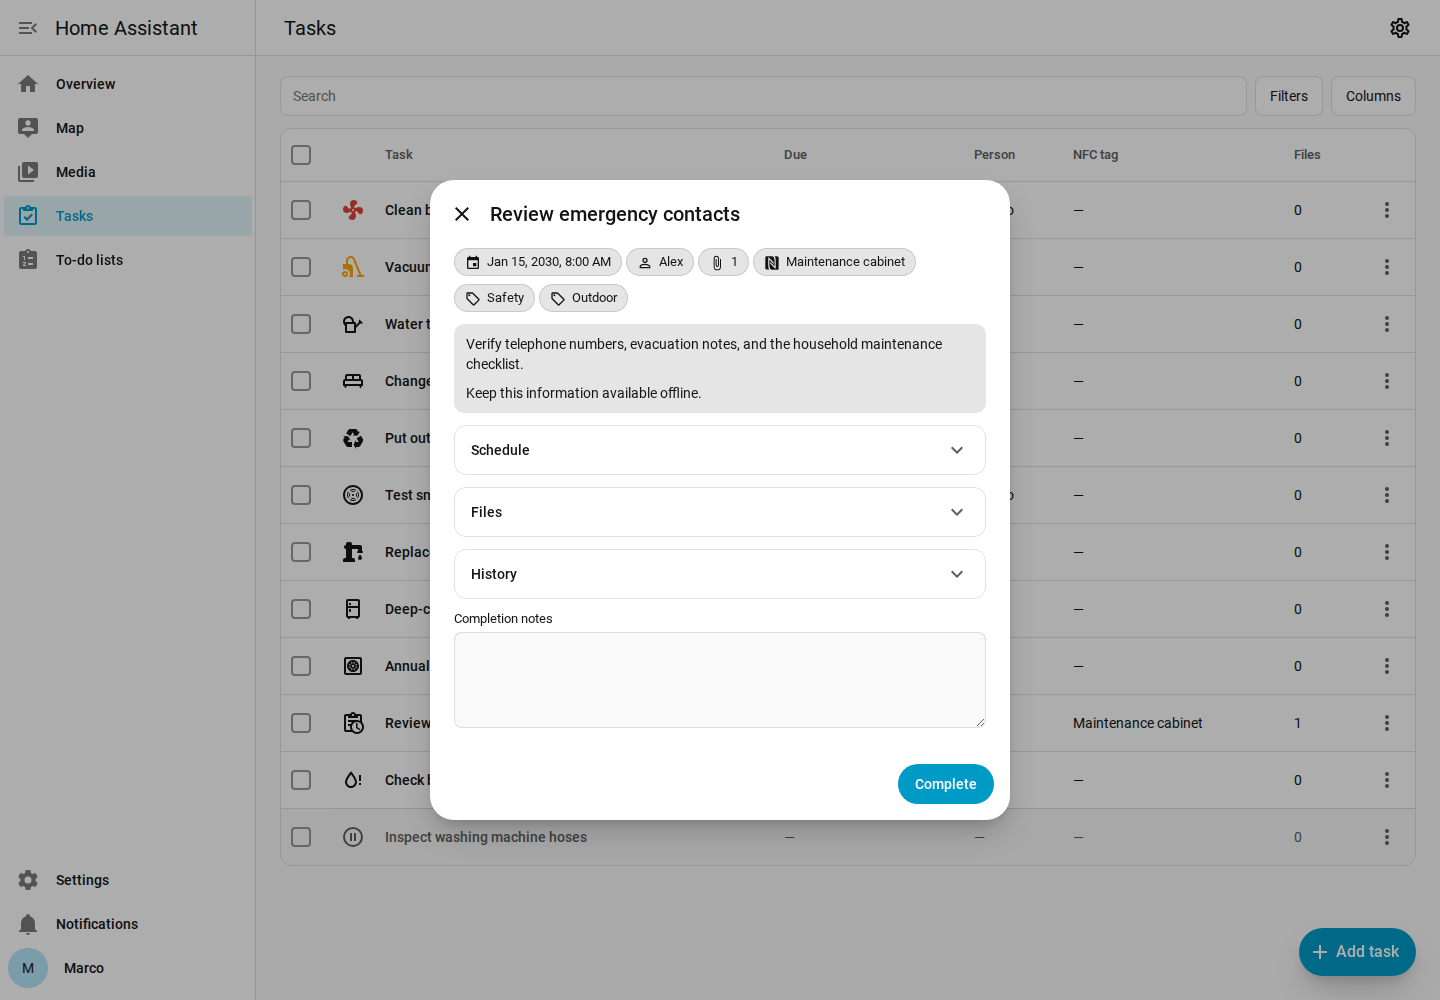
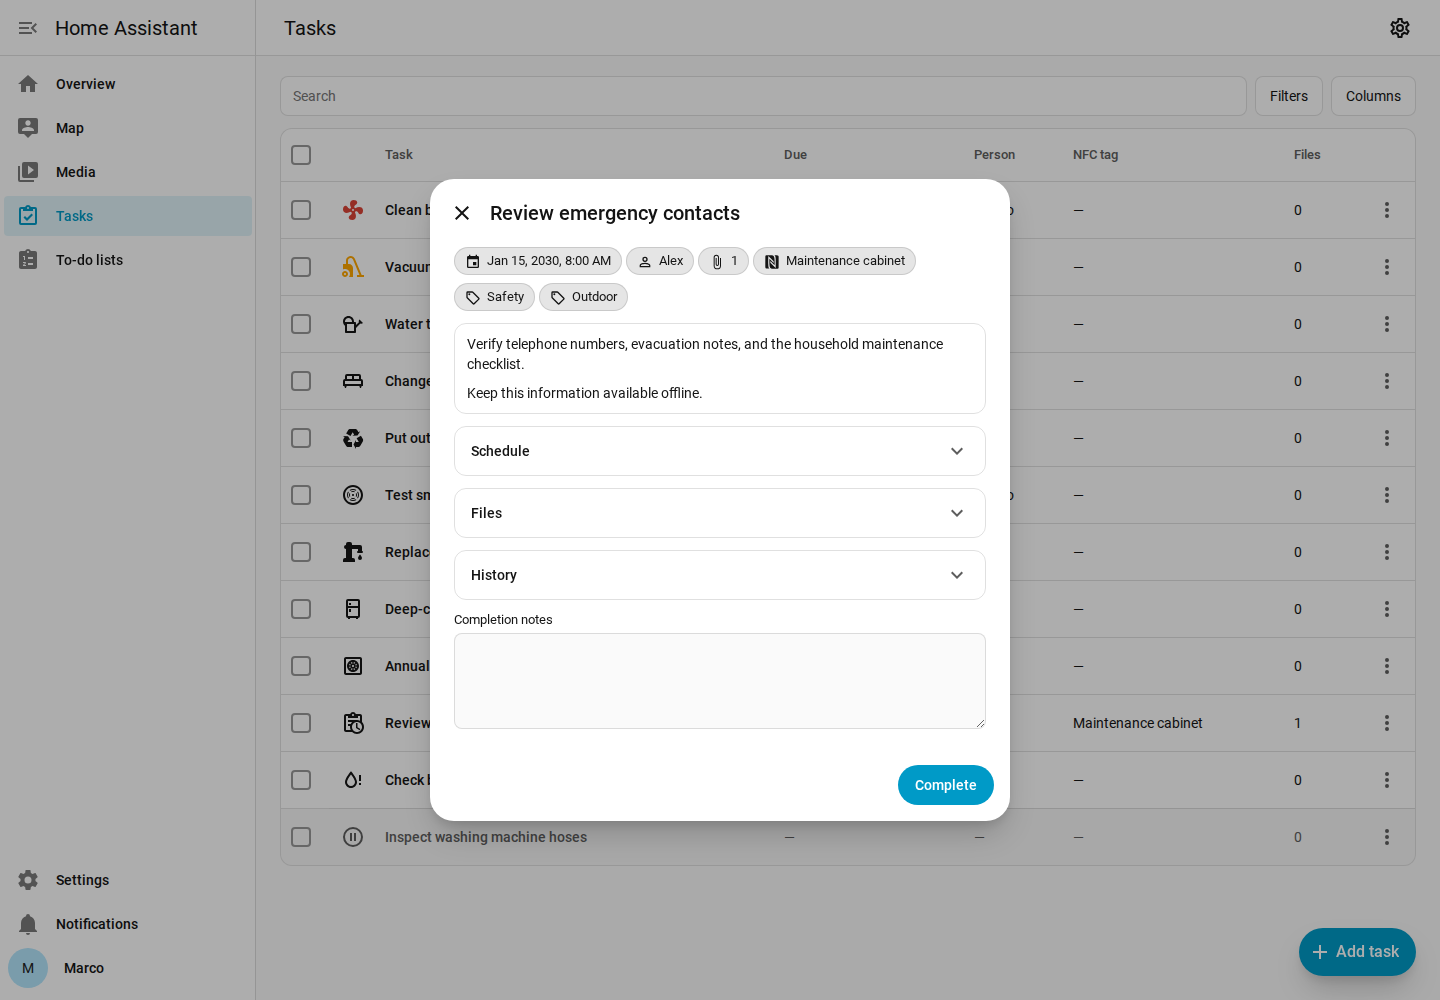
style: outline task descriptions

diff --git a/custom_components/tasks/frontend/card.js b/custom_components/tasks/frontend/card.js
@@ -2041,7 +2041,7 @@ var se=globalThis,ie=se.ShadowRoot&&(se.ShadyCSS===void 0||se.ShadyCSS.nativeSha
 
     .description {
       padding: 10px 12px;
-      background: var(--primary-background-color);
+      border: 1px solid var(--divider-color);
       border-radius: var(--ha-border-radius-lg);
       line-height: 1.45;
     }

diff --git a/custom_components/tasks/frontend/panel.js b/custom_components/tasks/frontend/panel.js
@@ -2152,7 +2152,7 @@ var te=globalThis,ie=te.ShadowRoot&&(te.ShadyCSS===void 0||te.ShadyCSS.nativeSha
 
     .description {
       padding: 10px 12px;
-      background: var(--primary-background-color);
+      border: 1px solid var(--divider-color);
       border-radius: var(--ha-border-radius-lg);
       line-height: 1.45;
     }

diff --git a/frontend/src/task-viewer.ts b/frontend/src/task-viewer.ts
@@ -149,7 +149,7 @@ class TasksTaskViewer extends LocalizedLitElement {
 
     .description {
       padding: 10px 12px;
-      background: var(--primary-background-color);
+      border: 1px solid var(--divider-color);
       border-radius: var(--ha-border-radius-lg);
       line-height: 1.45;
     }
